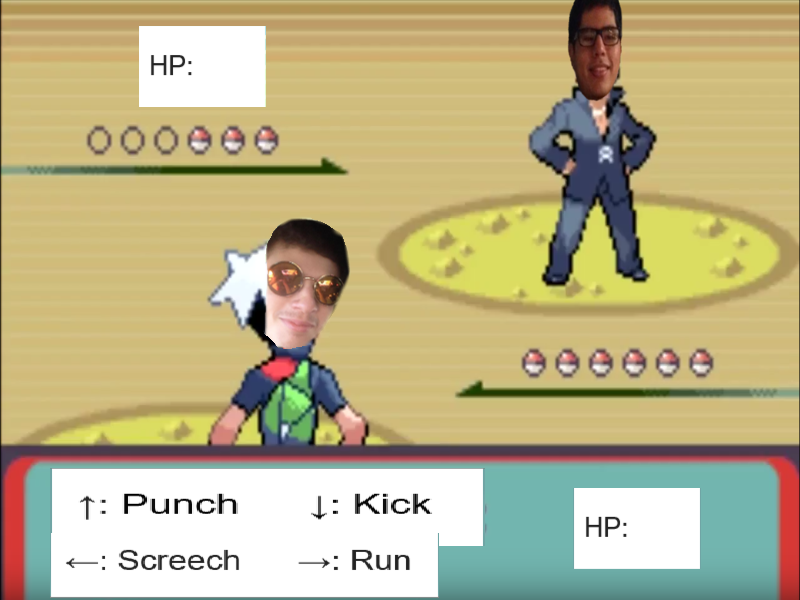
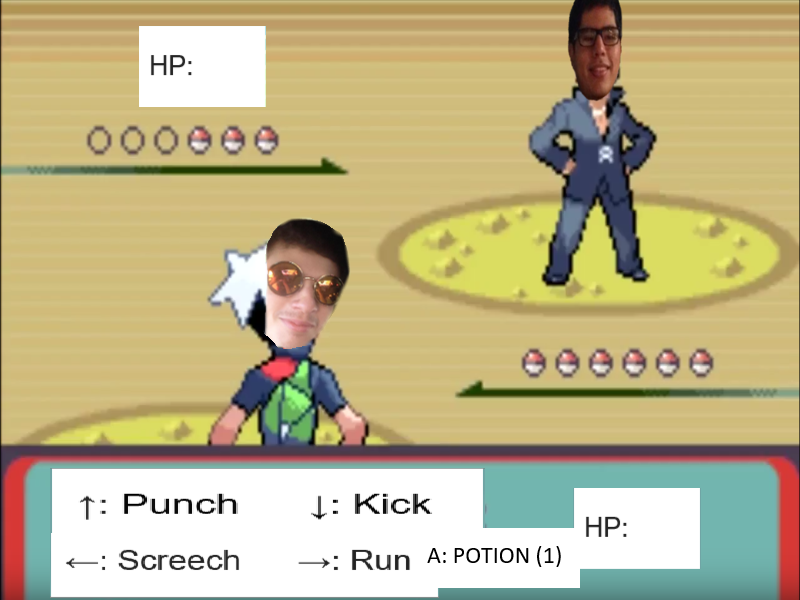
update

Changed region(s): [[0.5312, 0.87, 0.75, 0.99]]

diff --git a/HW10/js/main.js b/HW10/js/main.js
@@ -204,7 +204,9 @@ var mainF = {
 		this.labelScore1 = game.add.text(585, 485, "100", { font: "30px Arial", fill: "#000000" });
 		this.labelScore = game.add.text(200, 35, "100", { font: "30px Arial", fill: "#000000" });	
 		this.input = game.input.keyboard.createCursorKeys();
+		this.pauseKey = game.input.keyboard.addKey(Phaser.Keyboard.A);
 		this.bool = 1;
+		this.bool2 = 1;
     },
 
     update: function() {
@@ -215,7 +217,21 @@ var mainF = {
 	if(this.input.right.isDown){
 		//this.song.pause();
 		game.state.start('main');
-	}	
+	}
+	if(this.pauseKey.isDown){
+		if(this.bool2 == 1){
+			if(this.playerHP + 75 >= 100){
+				this.playerHP = 100;
+				this.labelScore1.text = this.playerHP;
+				this.bool2 = 0;
+			}
+			else{
+				this.playerHP += 75;
+				this.labelScore1.text = this.playerHP;
+				this.bool2 = 0;
+			}
+		}
+	}
 	if(this.bool == 1){
 		if(this.enemyHP < 20){
 			this.bool = 0;
